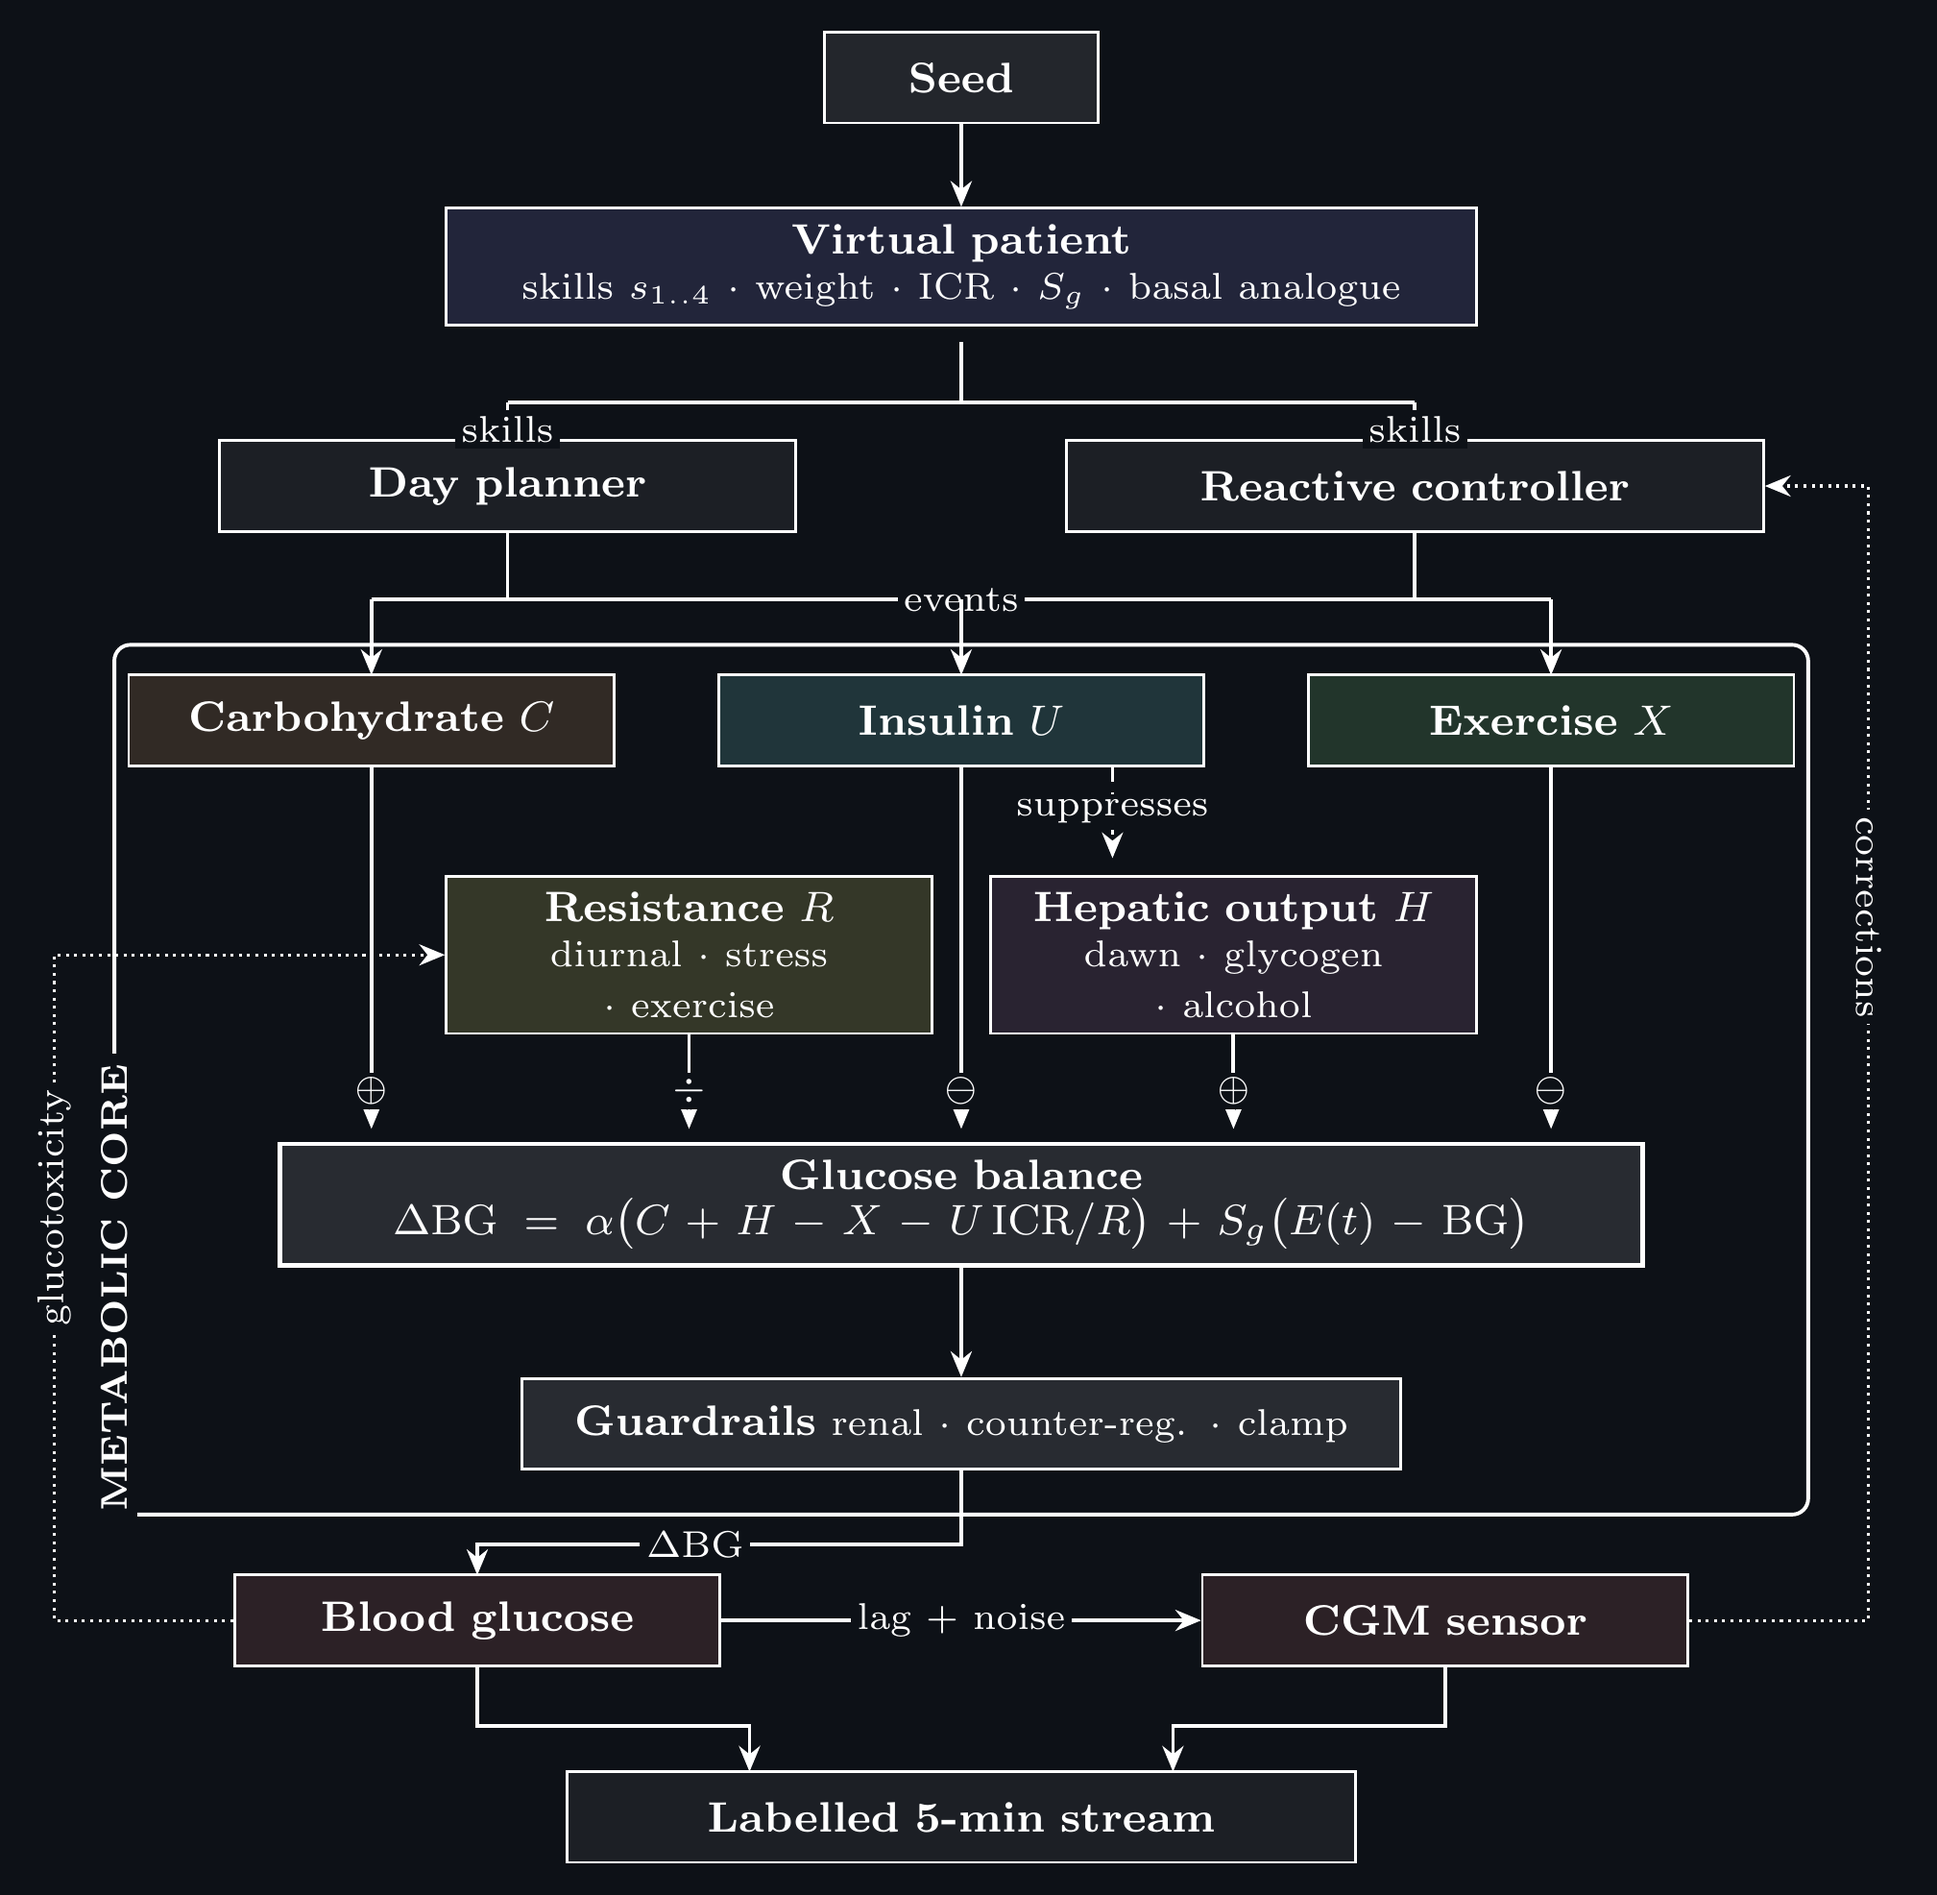
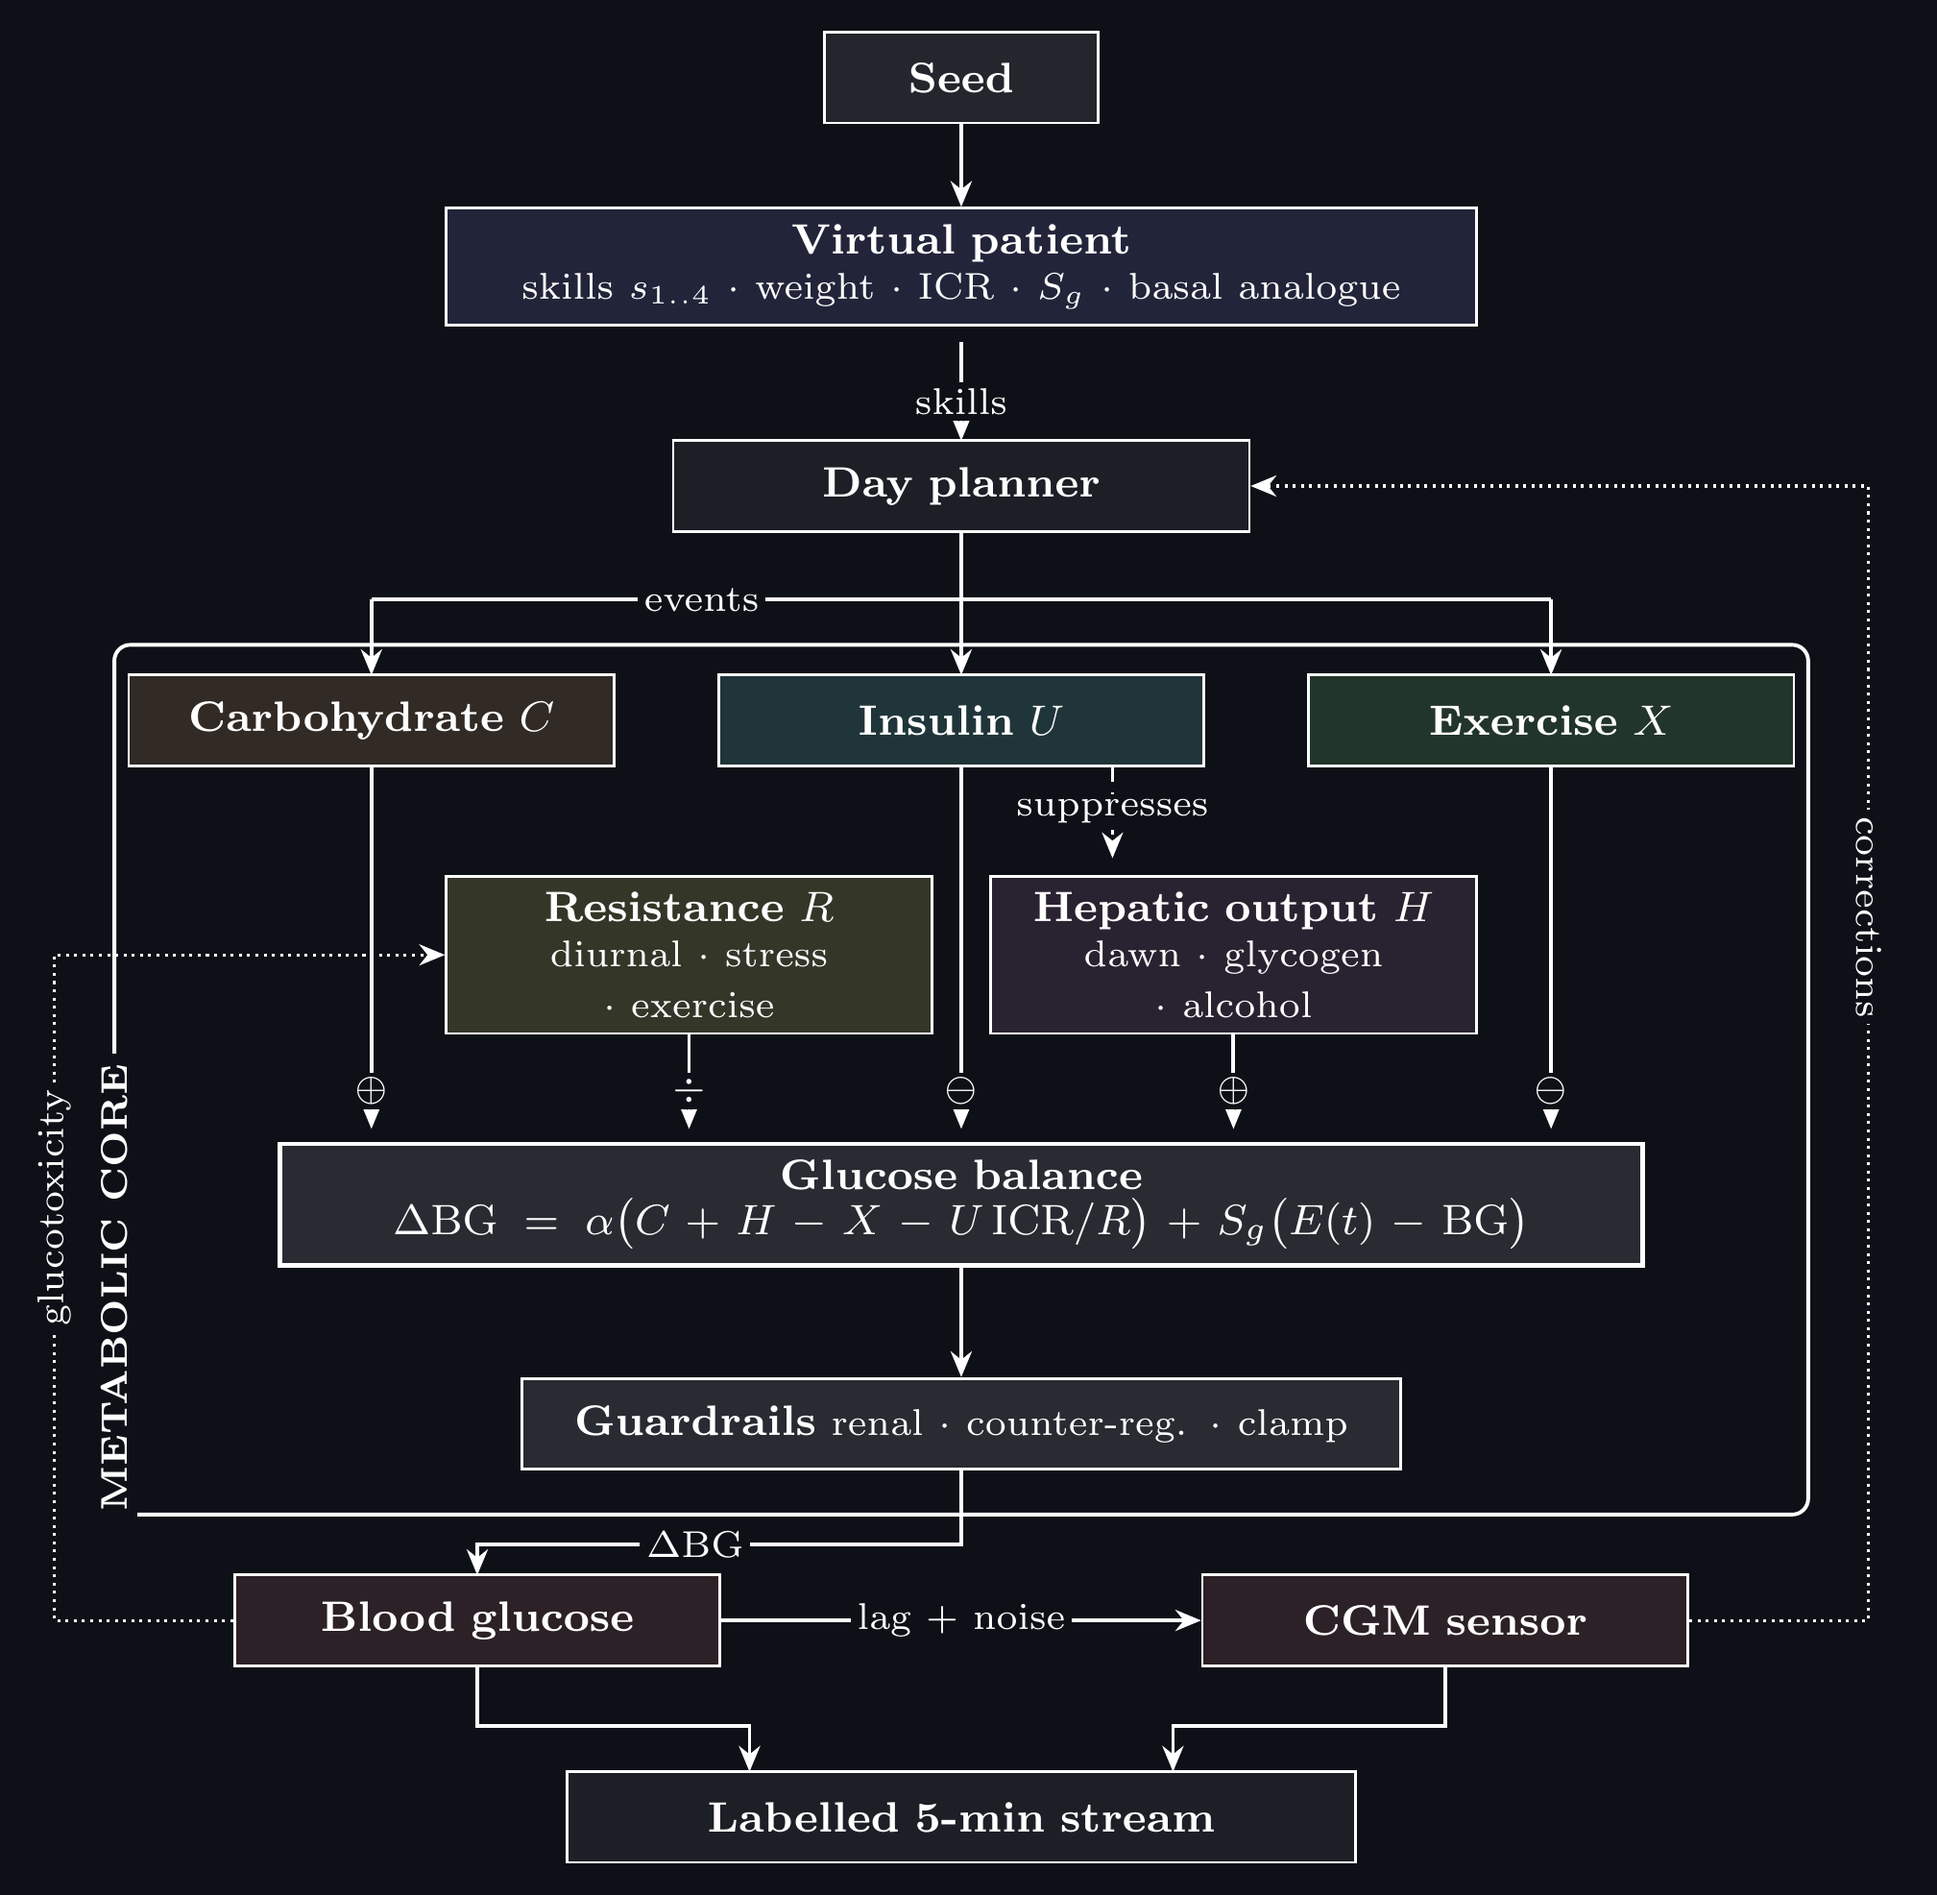
Collapse the architecture diagram's two behavioural boxes into a single Day planner that also receives the corrections feedback, dropping the reactive-controller label from the figure and its prose

diff --git a/index.html b/index.html
@@ -458,11 +458,11 @@ footer a { color: var(--muted); }
   <div class="wrap">
     <p class="eyebrow">Architecture</p>
     <h2>Events become curves; curves become a delta</h2>
-    <p class="sub">A day planner and a reactive controller turn latent skill into events. Each event becomes a
+    <p class="sub">A day planner turns latent skill into events. Each event becomes a
     factor curve — gamma for carbohydrate, Bateman for basal insulin. The metabolic core sums them every five
     minutes.</p>
     <figure class="feature">
-      <img src="screenshots/architecture-dark.png" alt="Architecture diagram: a seed fixes the virtual patient; a day planner and reactive controller emit events; events become factor curves; the metabolic core combines them into a five-minute blood sugar delta, with feedback from the sensor and from glucotoxicity." loading="lazy">
+      <img src="screenshots/architecture-dark.png" alt="Architecture diagram: a seed fixes the virtual patient; a day planner emits events; events become factor curves; the metabolic core combines them into a five-minute blood sugar delta, with feedback from the sensor and from glucotoxicity." loading="lazy">
     </figure>
     <div class="two">
       <div>

diff --git a/README.md b/README.md
@@ -80,7 +80,7 @@ The two published caches carry their reports in-tree — [`cache_balanced/DATASE
   <img alt="Architecture Diagram" src="screenshots/architecture.png">
 </picture>
 
-A seed fixes the virtual patient. A day planner and a reactive controller turn that patient's latent skills into events, each event becomes a factor curve, and the metabolic core combines the curves into a 5-minute blood sugar delta. Solid arrows carry glucose or insulin and are badged by their effect on BG (⊕ raises, ⊖ lowers, ÷ divides the insulin term); the dashed arrow is multiplicative modulation; the dotted arrows are the two feedback loops -- the patient doses against the sensor rather than the true BG, and sustained hyperglycemia raises insulin resistance.
+A seed fixes the virtual patient. A day planner turns that patient's latent skills into events, each event becomes a factor curve, and the metabolic core combines the curves into a 5-minute blood sugar delta. Solid arrows carry glucose or insulin and are badged by their effect on BG (⊕ raises, ⊖ lowers, ÷ divides the insulin term); the dashed arrow is multiplicative modulation; the dotted arrows are the two feedback loops -- the patient doses against the sensor rather than the true BG, and sustained hyperglycemia raises insulin resistance.
 
 `simulator.py` holds the engine and its ~270 uppercase parameter constants. `T1DMSimulator.generate()` advances one 5-minute step and returns every factor value plus the resulting BG — `rand()` in C: seed once, then call repeatedly. `visualizer.py` renders those curves interactively, with the skill profile, derived parameters, and live statistics in a sidebar and exact values on mouse hover.
 
